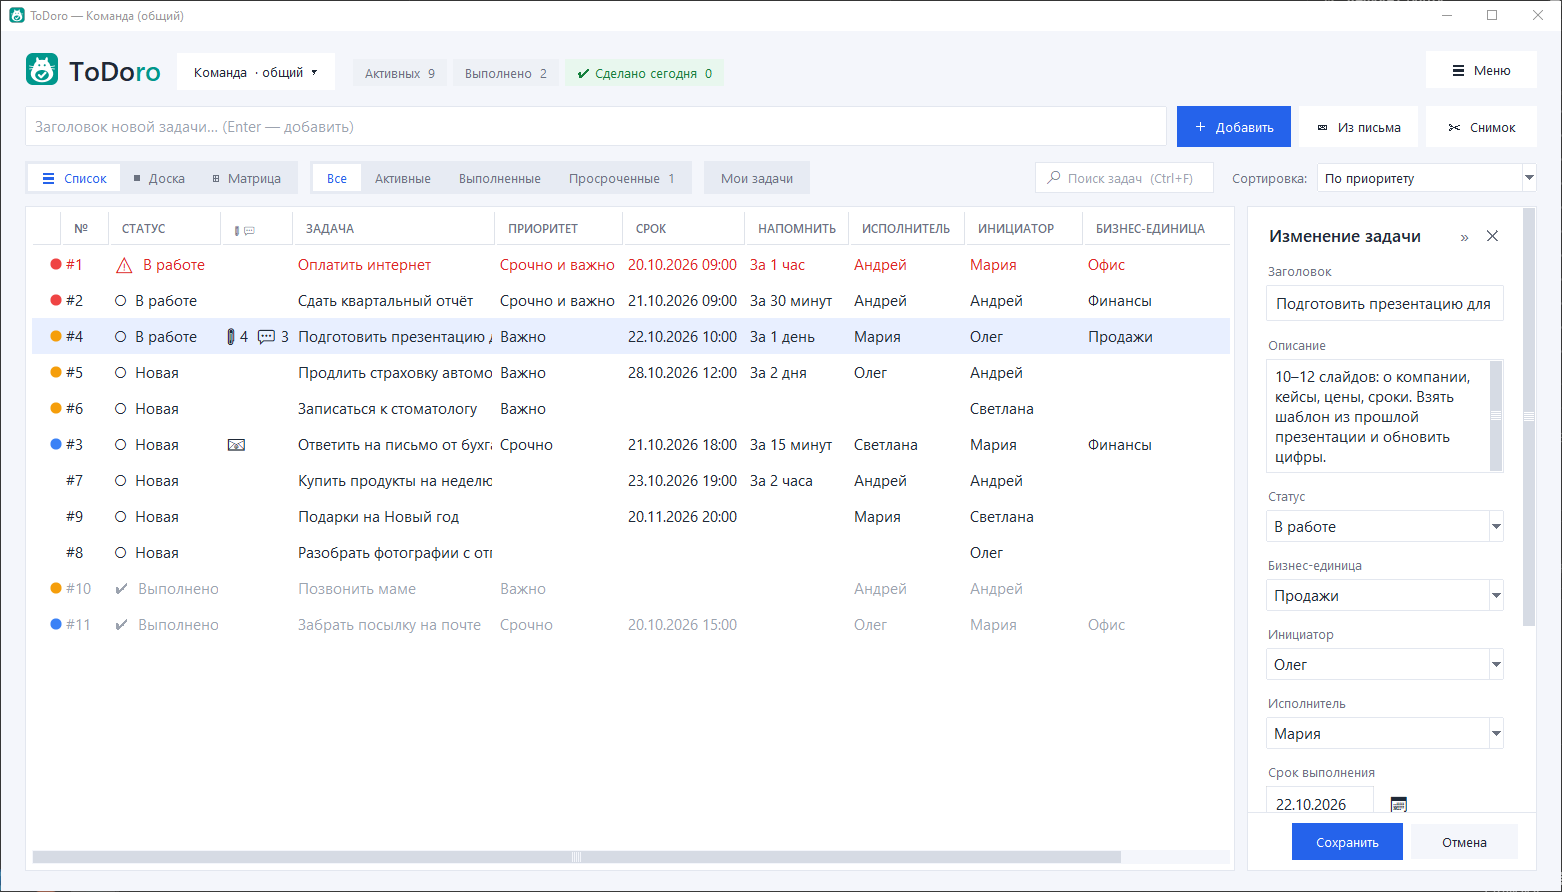
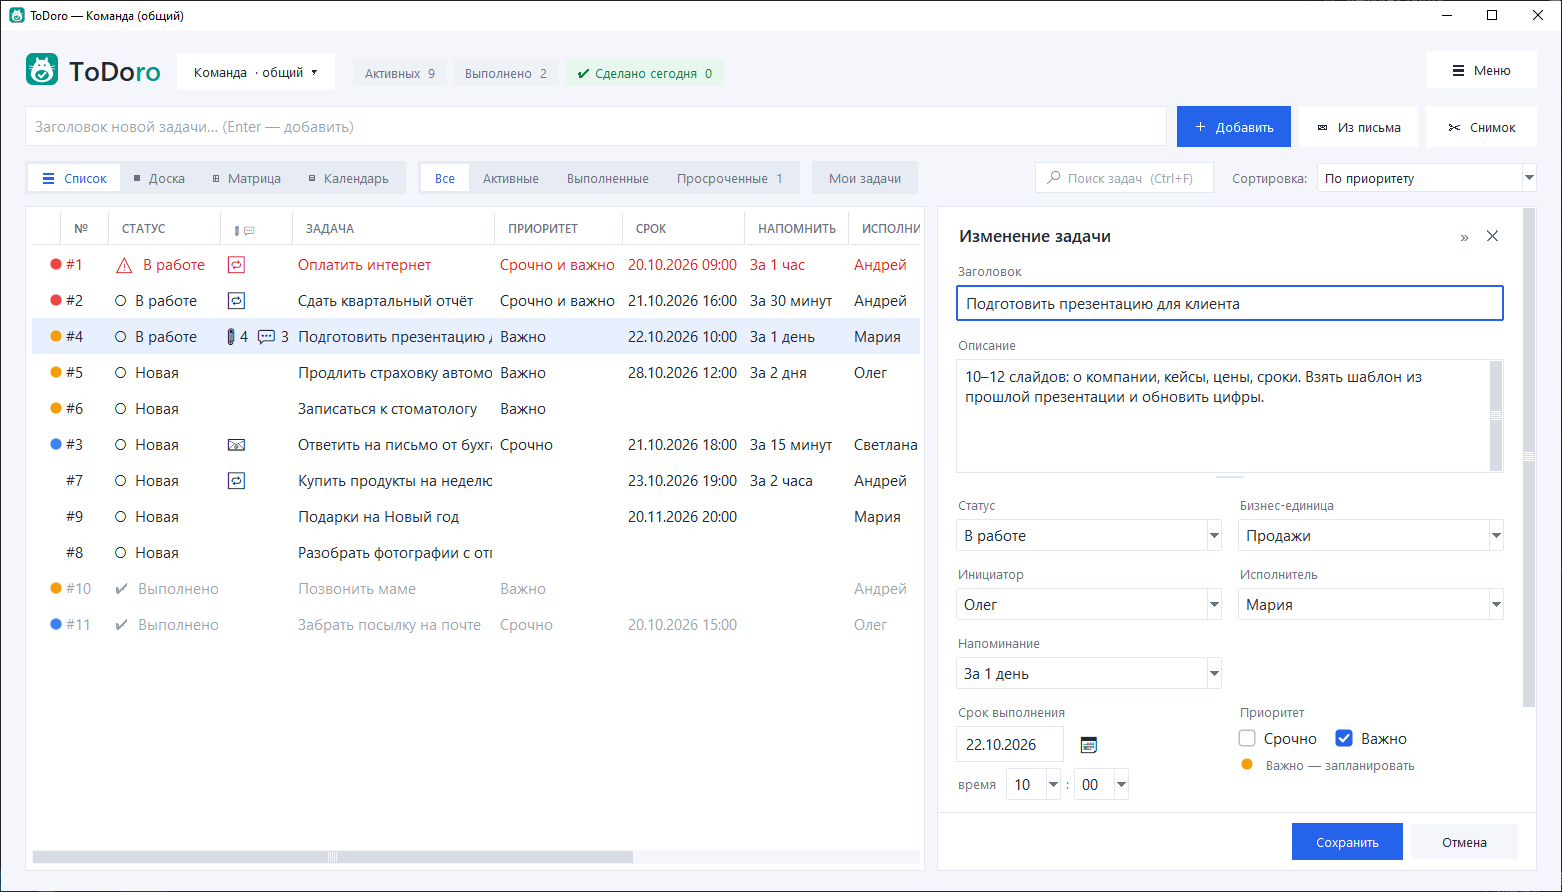
Версия 2.23

diff --git a/tools/make_screenshots.py b/tools/make_screenshots.py
@@ -257,11 +257,13 @@ def run():
     if wanted("card"):  # 3. Карточка задачи справа
         select("Сдать квартальный отчёт")
         grab("card.png")
-    if wanted("form"):  # 4. Форма изменения задачи (с исполнителем)
+    if wanted("form"):  # 4. Форма изменения задачи (с исполнителем) — в широкой панели, поля в две колонки
         select("Подготовить презентацию для клиента")
+        app.paned.paneconfigure(app.side, width=600)
         app.edit()
         grab("form.png")
         app.cancel_edit()
+        app.paned.paneconfigure(app.side, width=app.panel_width)
     if wanted("files") or wanted("comments"):  # 4б. Вкладки «Файлы» и «Комментарии» в карточке
         shoot_card_tabs()
     app.clear_selection()  # после card/form — дальше снимки без выделенной задачи, как при полной съёмке

diff --git a/todoro.py b/todoro.py
@@ -36,7 +36,7 @@ from examples import make_examples
 from help_text import HELP
 
 APP_NAME = "ToDoro"  # ToDo + Totoro
-APP_VERSION = "2.22"  # номер версии — меняется здесь (установщик берёт его отсюда)
+APP_VERSION = "2.23"  # номер версии — меняется здесь (установщик берёт его отсюда)
 APP_YEAR = 2026
 COPYRIGHT_HOLDER = "Machinist"  # автор — имя меняется здесь и в файле LICENSE
 COPYRIGHT = f"© {APP_YEAR} {COPYRIGHT_HOLDER}"

diff --git a/RELEASE_NOTES.md b/RELEASE_NOTES.md
@@ -3,14 +3,19 @@
 Здесь записано, что менялось от версии к версии. Новые записи — сверху.
 Скачать установщик любой версии: https://github.com/machinist-soft/ToDoro/releases
 
-## Не выпущено
+## 2.23 — 21.10.2026
 
-- Форма изменения задачи в широкой правой панели: поля стоят в две колонки («Статус» рядом с «Напоминанием», «Срок» рядом с «Приоритетом»), и описанию остаётся больше места.
-- Поле описания в форме задачи можно растянуть, потянув за полоску под ним; программа запоминает его высоту. Двойной щелчок по полоске возвращает обычную высоту.
+### Новое
+
 - В поле «Повторять» появились «Ежеквартально» (каждые 3 месяца) и «Раз в полгода» (каждые 6 месяцев). Число месяца сохраняется, а если такого числа в месяце нет (31-е), срок ставится на последний день месяца.
+- В общих списках «Ежеквартально» и «Раз в полгода» понимает только версия 2.23 и новее: у коллег со старой версией такая задача выглядит неповторяющейся, а если они отметят её выполненной, следующая задача не появится (а если у повтора задано «До», их правка ещё и снимет повтор), — попросите коллег обновиться.
+
+### Улучшения
+
+- Форма изменения задачи в широкой правой панели: поля стоят в две колонки («Статус» рядом с «Напоминанием», «Срок» рядом с «Приоритетом»), и описанию остаётся больше места. Панель расширяется, если потянуть за её левый край.
+- Поле описания в форме задачи можно растянуть или сжать, потянув за полоску под ним; программа запоминает его высоту. Двойной щелчок по полоске возвращает обычную высоту.
 - Превью картинок во вкладке «Файлы» загружаются в фоне: в общем списке через VPN окно больше не замирает, пока читается большая картинка; пока превью грузится, на его месте значок файла.
 - Обновлена библиотека для работы с картинками (Pillow) — в прежней версии были найдены уязвимости.
-- В общих списках новые повторы понимает только новая версия: у коллег со старой версией задача выглядит неповторяющейся, а если они отметят её выполненной, следующая задача не появится (а если у повтора задано «До», их правка ещё и снимет повтор), — попросите коллег обновиться.
 
 ## 2.22 — 21.10.2026
 
